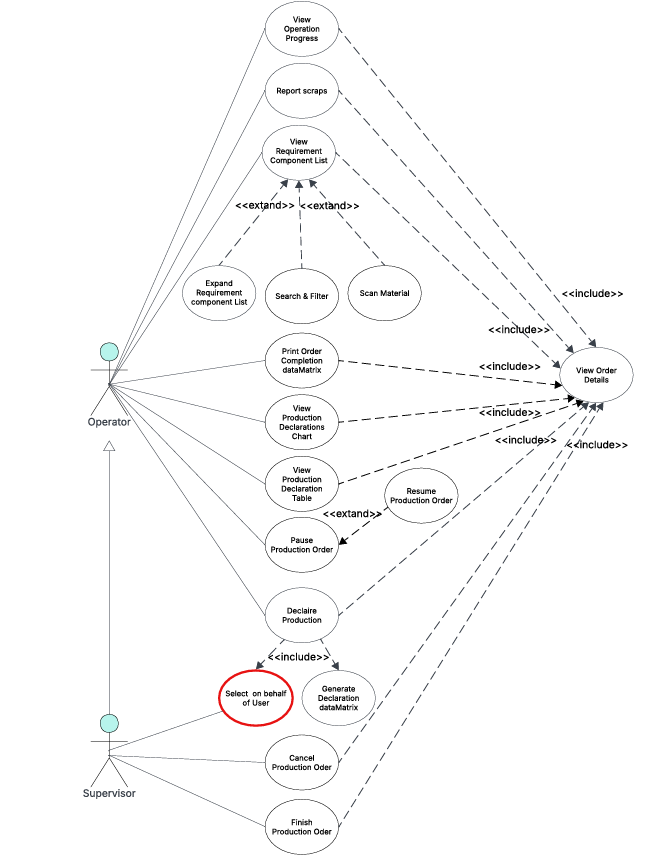
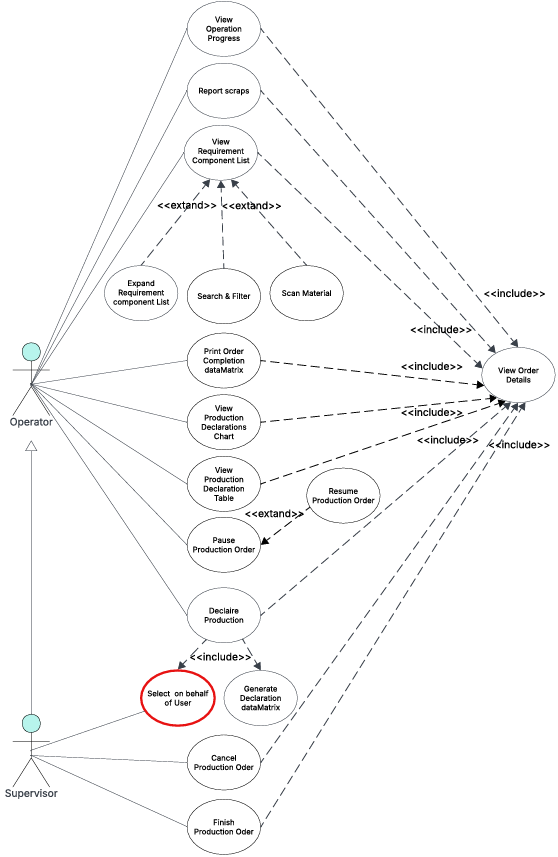
changed the size of the usecase diagrams of the sprint 3 and 4
[sync_sprints:auto]

diff --git a/complete_report.tex b/complete_report.tex
@@ -326,8 +326,6 @@ performance, serving both operators and management alike.
 \graphicspath{{./media/MES_chapter-1-repport/}}
 \minitoc
 \newpage
-
-
 \input{source/chapter1.tex}
 
 % ---------------------------------------------------------------------------
@@ -337,8 +335,6 @@ performance, serving both operators and management alike.
 \graphicspath{{./media/MES_chapter-2-repport/}}
 \minitoc
 \newpage
-
-
 \input{source/chapter2.tex}
 
 % ---------------------------------------------------------------------------
@@ -348,8 +344,6 @@ performance, serving both operators and management alike.
 \graphicspath{{./media/MES_Sprint-1-Repport/}}
 \minitoc
 \newpage
-
-
 \input{source/sprint1.tex}
 
 % ---------------------------------------------------------------------------
@@ -359,8 +353,6 @@ performance, serving both operators and management alike.
 \graphicspath{{./media/MES_Sprint-2-Repport/}}
 \minitoc
 \newpage
-
-
 \input{source/sprint2.tex}
 
 % ---------------------------------------------------------------------------
@@ -370,8 +362,6 @@ performance, serving both operators and management alike.
 \graphicspath{{./media/MES_Sprint-3-Repport/}}
 \minitoc
 \newpage
-
-
 \input{source/sprint3.tex}
 
 % ---------------------------------------------------------------------------
@@ -381,8 +371,6 @@ performance, serving both operators and management alike.
 \graphicspath{{./media/MES_Sprint-4-Report/}}
 \minitoc
 \newpage
-
-
 \input{source/sprint4.tex}
 
 %% CHAPTERS:END

diff --git a/source/sprint4.tex b/source/sprint4.tex
@@ -191,7 +191,7 @@ cross-cutting accessibility features available on every screen.
 
 \begin{figure}[H]
       \centering
-      \includegraphics[width=6in]{./media/MES_Sprint-4-Report/diagrams/useCase/sprint4.png}
+      \includegraphics[height=0.5\textheight,keepaspectratio]{./media/MES_Sprint-4-Report/diagrams/useCase/sprint4.png}
       \caption{UML Use Case Diagram --- Administration \& UX.}
       \label{fig:s4-use-case-s4}
 \end{figure}
@@ -202,7 +202,7 @@ The following table (Table~\ref{tab:s4-uc-scan-component-s4}) provides the detai
 textual description of the \textit{View Machine Dashboard} use case, which
 represents the most significant new administrator workflow in this sprint.
 
-\Needspace{10\baselineskip}
+\Needspace{8\baselineskip}
 \begin{longtable}{@{} P{0.21\linewidth} P{0.75\linewidth} @{}}
             
       \caption{Textual Use Case Description --- View Machine Dashboard}
